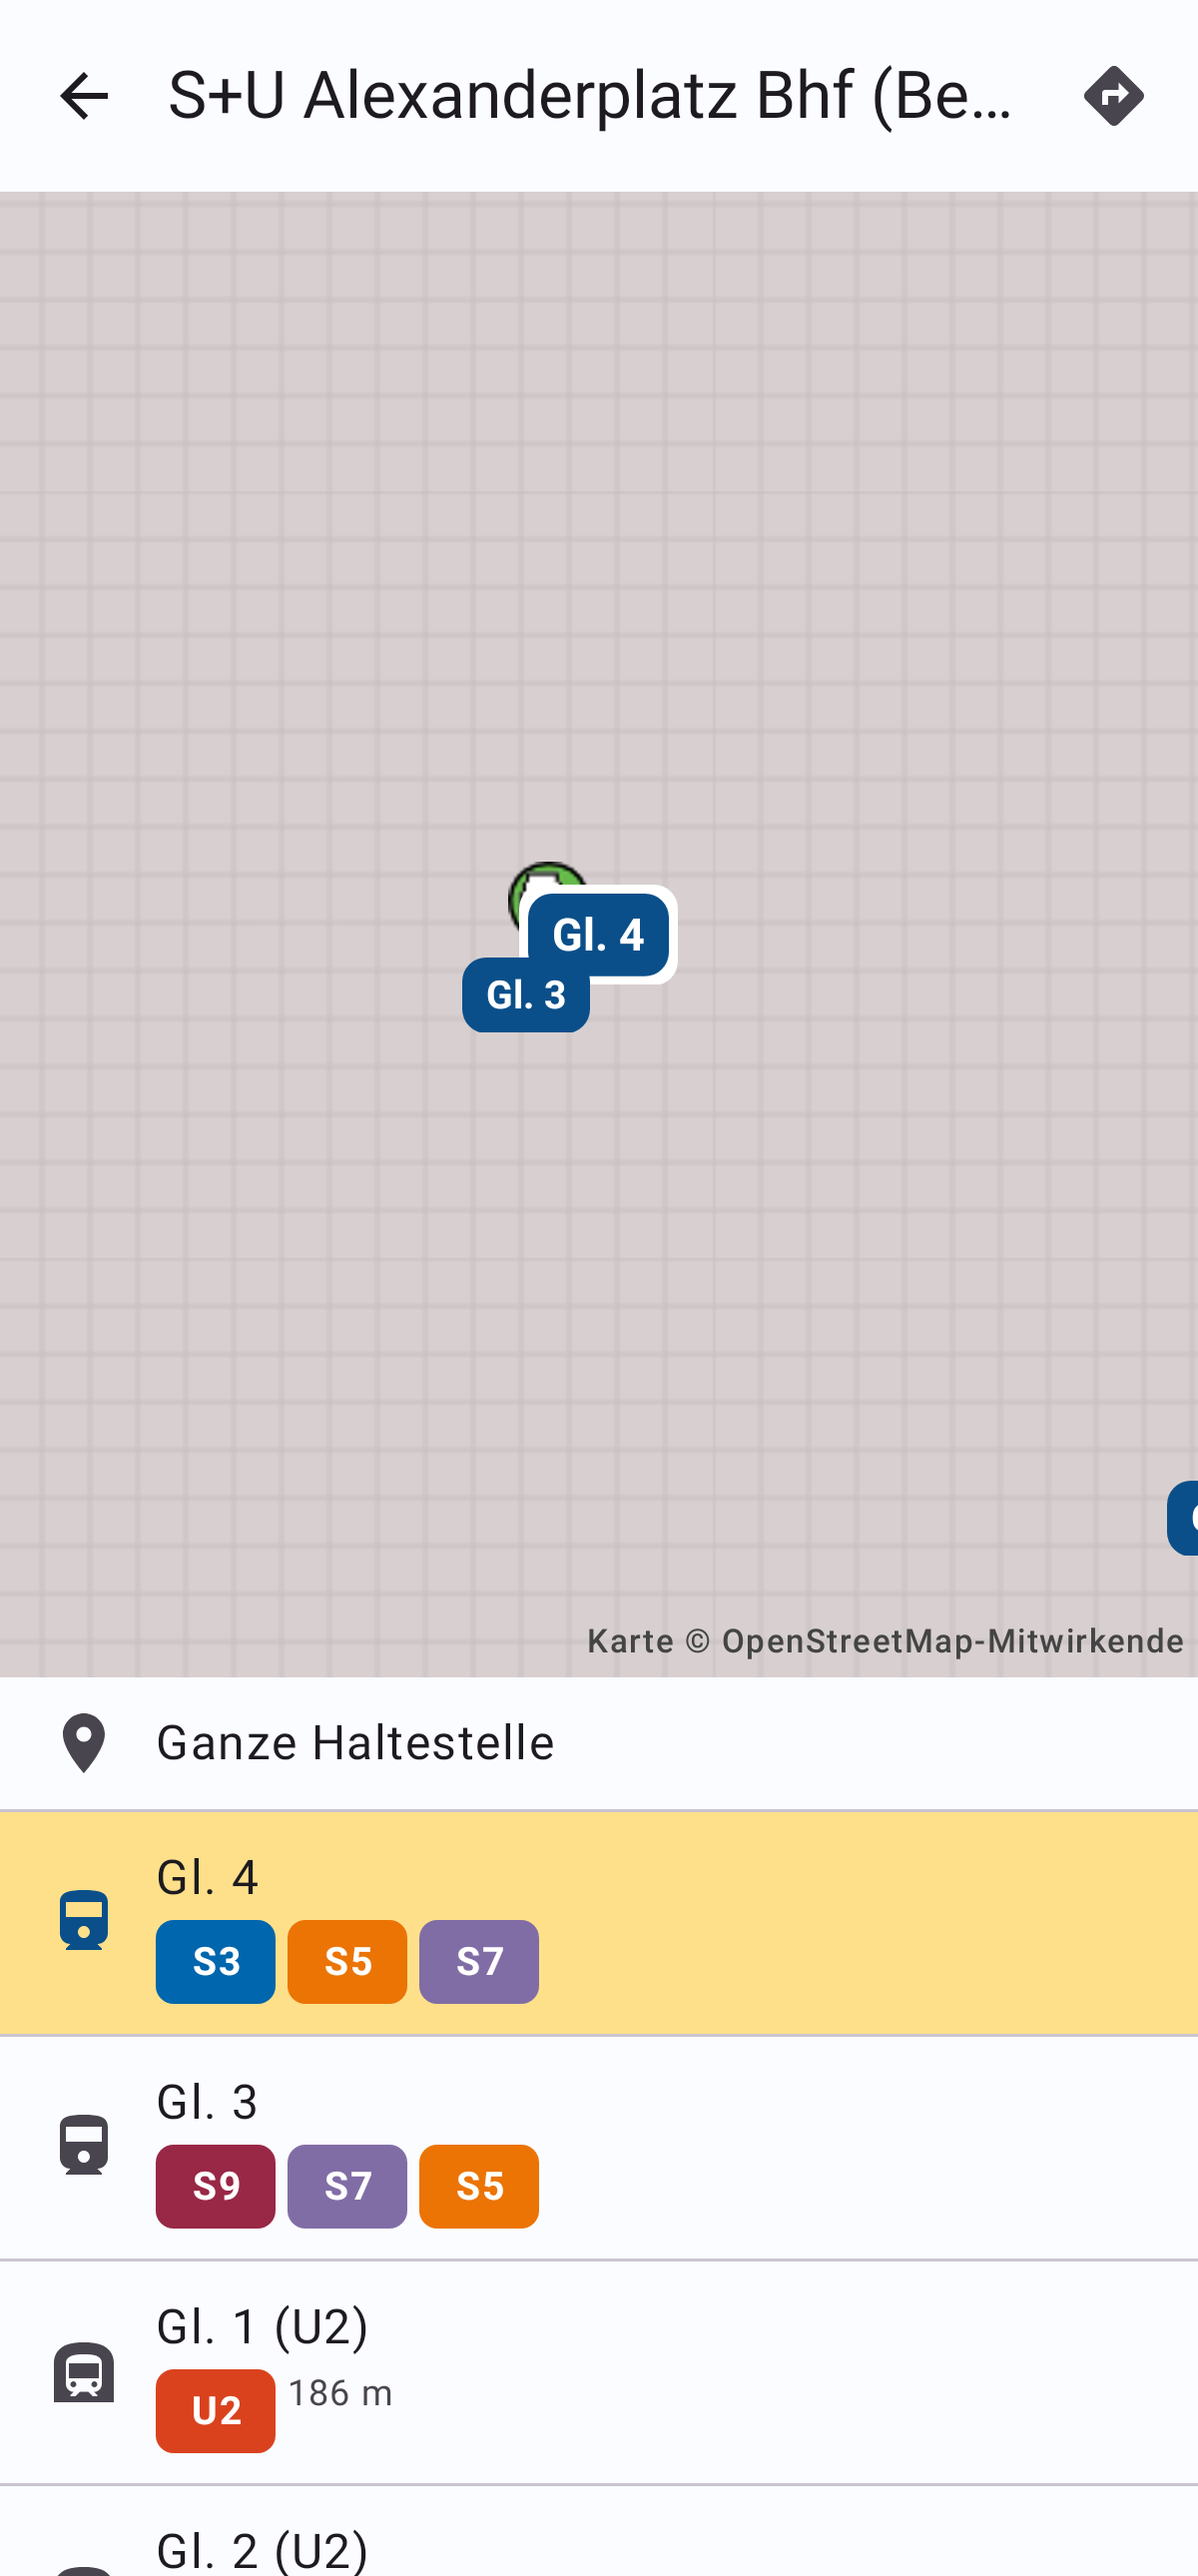
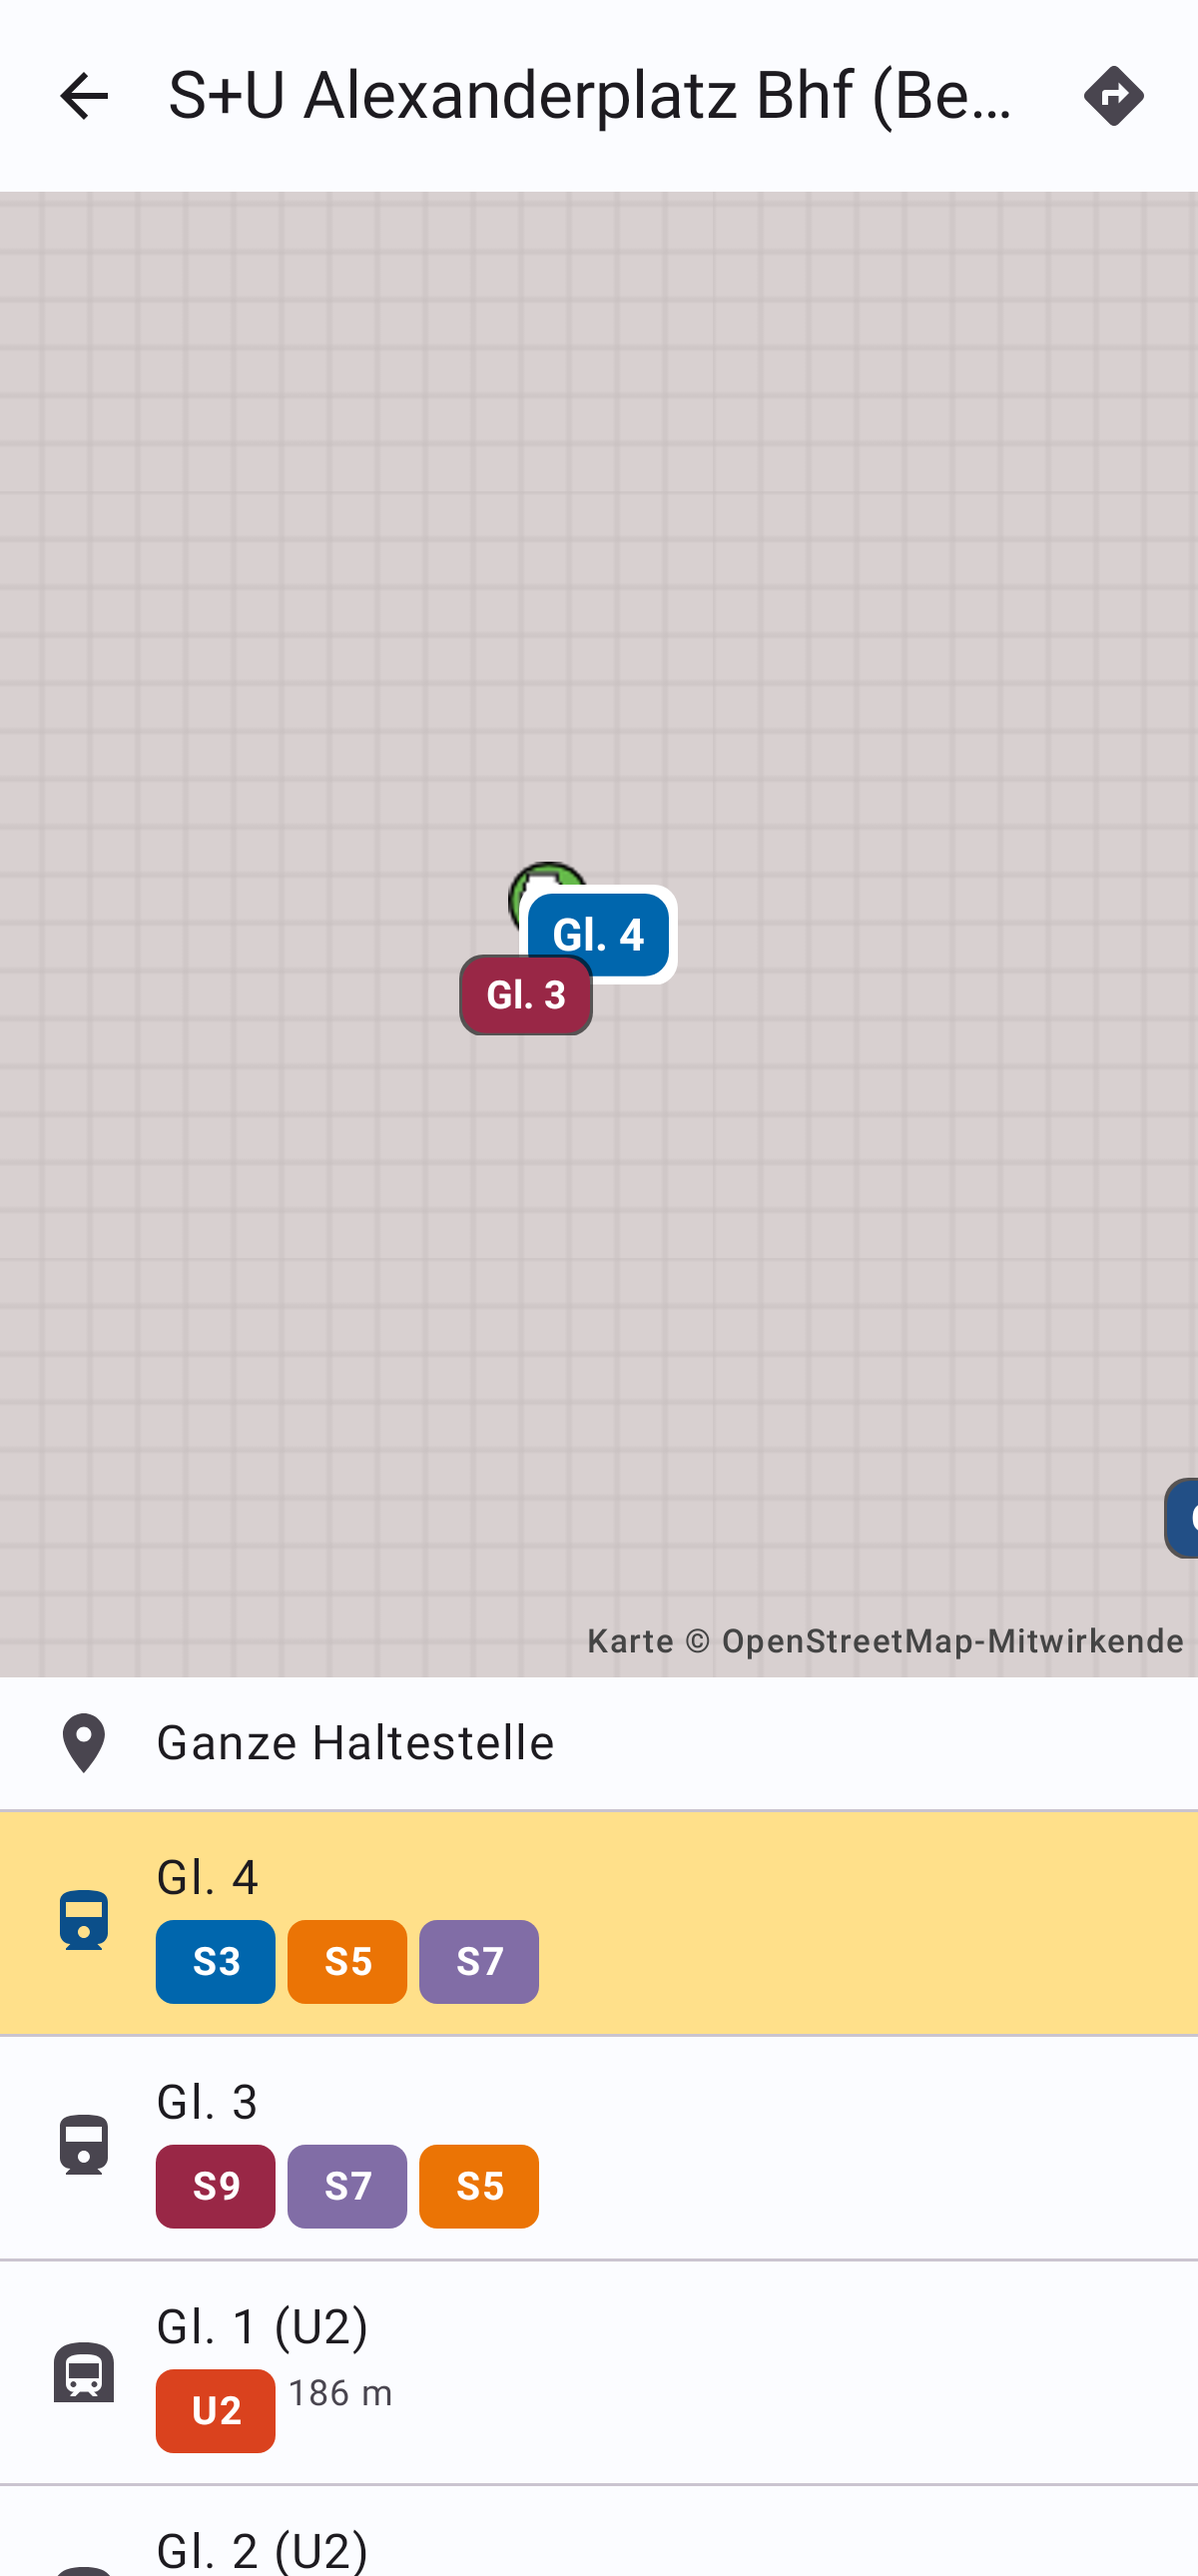
Make map labels readable in dark mode
The platform and stop labels on the map were drawn in white on the
theme's primary colour, which in dark mode is a pale tint: white boxes
without visible text. The map itself stays light in both themes, so the
labels no longer follow the theme: a platform takes the colour of its
main line (as its line badges do), with the feed's text colour or else
white or black, whichever contrasts more; platforms of lines without a
colour are dark blue, other stops dark grey. A thin dark outline keeps
light labels apart from the map.

Tests for the colours and a dark-mode screenshot of the map.

Claude-Session: https://claude.ai/code/session_01MJ5wF5pqDfNy3ZMUrC4JjH

Changed region(s): [[0.37, 0.3411, 0.555, 0.4031]]

diff --git a/app/src/main/java/io/github/dnicotra/ovinfode/ui/map/StopMapScreen.kt b/app/src/main/java/io/github/dnicotra/ovinfode/ui/map/StopMapScreen.kt
@@ -52,7 +52,6 @@ import androidx.compose.ui.Alignment
 import androidx.compose.ui.Modifier
 import androidx.compose.ui.draw.clipToBounds
 import androidx.compose.ui.graphics.Color
-import androidx.compose.ui.graphics.toArgb
 import androidx.compose.ui.platform.LocalContext
 import androidx.lifecycle.compose.LocalLifecycleOwner
 import androidx.compose.ui.res.stringResource
@@ -230,8 +229,6 @@ private const val MAX_LINES = 8
 private fun StopMap(state: StopMapUiState, onSelect: (MapTarget) -> Unit) {
     val context = LocalContext.current
     val lifecycle = LocalLifecycleOwner.current.lifecycle
-    val primary = MaterialTheme.colorScheme.primary.toArgb()
-    val secondary = MaterialTheme.colorScheme.tertiary.toArgb()
     val labels = state.targets.associateWith { markerLabel(it) }
     val mapView = remember {
         MapView(context).apply {
@@ -273,7 +270,8 @@ private fun StopMap(state: StopMapUiState, onSelect: (MapTarget) -> Unit) {
                     when (target) {
                         is MapTarget.WholeStop -> setAnchor(Marker.ANCHOR_CENTER, Marker.ANCHOR_BOTTOM)
                         else -> {
-                            icon = labelIcon(map.context, labels[target].orEmpty(), if (target is MapTarget.OtherStop) secondary else primary, isSelected)
+                            val (background, text) = labelColors(target)
+                            icon = labelIcon(map.context, labels[target].orEmpty(), background, text, isSelected)
                             setAnchor(Marker.ANCHOR_CENTER, Marker.ANCHOR_CENTER)
                         }
                     }
@@ -300,26 +298,57 @@ private fun markerLabel(target: MapTarget): String = when (target) {
     is MapTarget.OtherStop -> target.nearby.stop.name.let { if (it.length > 18) it.take(17) + "…" else it }
 }
 
-/** A rounded label in [color], larger and outlined when [selected]. */
-private fun labelIcon(context: Context, text: String, color: Int, selected: Boolean): BitmapDrawable {
+// Marker colours do not follow the app's theme: the map underneath is always light.
+private const val PLATFORM_LABEL = 0xFF1F3A5F.toInt()
+private const val OTHER_STOP_LABEL = 0xFF4A4A4A.toInt()
+private const val WHITE = 0xFFFFFFFF.toInt()
+private const val BLACK = 0xFF000000.toInt()
+
+/**
+ * Background and text colour of a marker: a platform in the colour of its main line, as on
+ * the line badges, where the feed has one; otherwise dark blue, other stops dark grey.
+ */
+internal fun labelColors(target: MapTarget): Pair<Int, Int> {
+    if (target is MapTarget.Platform) {
+        val line = target.place.lines.firstOrNull { it.color != null }
+        val background = line?.color
+        if (background != null) return background to (line.textColor ?: readableTextOn(background))
+        return PLATFORM_LABEL to WHITE
+    }
+    return OTHER_STOP_LABEL to WHITE
+}
+
+/** White or black, whichever reads better on [background] (relative luminance, WCAG). */
+internal fun readableTextOn(background: Int): Int {
+    fun channel(shift: Int): Double {
+        val c = ((background shr shift) and 0xFF) / 255.0
+        return if (c <= 0.03928) c / 12.92 else Math.pow((c + 0.055) / 1.055, 2.4)
+    }
+    val luminance = 0.2126 * channel(16) + 0.7152 * channel(8) + 0.0722 * channel(0)
+    // Contrast with white (1.05 / (L + 0.05)) against contrast with black ((L + 0.05) / 0.05).
+    return if (1.05 / (luminance + 0.05) >= (luminance + 0.05) / 0.05) WHITE else BLACK
+}
+
+/** A rounded label with [text] in [textColor] on [background], larger and outlined when [selected]. */
+private fun labelIcon(context: Context, text: String, background: Int, textColor: Int, selected: Boolean): BitmapDrawable {
     val density = context.resources.displayMetrics.density
     val paint = Paint(Paint.ANTI_ALIAS_FLAG).apply {
         textSize = (if (selected) 15 else 13) * density
         typeface = Typeface.DEFAULT_BOLD
-        this.color = android.graphics.Color.WHITE
+        color = textColor
     }
     val padH = 8 * density
     val padV = 5 * density
-    val border = if (selected) 3 * density else 0f
+    // A thin outline keeps light labels apart from the map; the selected one gets a thick one.
+    val border = (if (selected) 3 else 1) * density
     val width = paint.measureText(text) + 2 * padH + 2 * border
     val height = paint.fontMetrics.let { it.descent - it.ascent } + 2 * padV + 2 * border
     val bitmap = Bitmap.createBitmap(width.toInt().coerceAtLeast(1), height.toInt().coerceAtLeast(1), Bitmap.Config.ARGB_8888)
     val canvas = Canvas(bitmap)
     val radius = 8 * density
-    if (selected) {
-        canvas.drawRoundRect(RectF(0f, 0f, width, height), radius, radius, Paint(Paint.ANTI_ALIAS_FLAG).apply { this.color = android.graphics.Color.WHITE })
-    }
-    canvas.drawRoundRect(RectF(border, border, width - border, height - border), radius, radius, Paint(Paint.ANTI_ALIAS_FLAG).apply { this.color = color })
+    val outline = if (selected) WHITE else 0x99000000.toInt()
+    canvas.drawRoundRect(RectF(0f, 0f, width, height), radius, radius, Paint(Paint.ANTI_ALIAS_FLAG).apply { color = outline })
+    canvas.drawRoundRect(RectF(border, border, width - border, height - border), radius, radius, Paint(Paint.ANTI_ALIAS_FLAG).apply { color = background })
     canvas.drawText(text, border + padH, border + padV - paint.fontMetrics.ascent, paint)
     return BitmapDrawable(context.resources, bitmap)
 }

diff --git a/app/src/test/java/io/github/dnicotra/ovinfode/ui/map/MapLabelsTest.kt b/app/src/test/java/io/github/dnicotra/ovinfode/ui/map/MapLabelsTest.kt
@@ -1,0 +1,41 @@
+package io.github.dnicotra.ovinfode.ui.map
+
+import io.github.dnicotra.ovinfode.data.model.LatLon
+import io.github.dnicotra.ovinfode.data.model.Line
+import io.github.dnicotra.ovinfode.data.model.NearbyStop
+import io.github.dnicotra.ovinfode.data.model.Stop
+import io.github.dnicotra.ovinfode.data.model.TransportMode
+import io.github.dnicotra.ovinfode.util.PlatformPlace
+import org.junit.Assert.assertEquals
+import org.junit.Assert.assertNotEquals
+import org.junit.Test
+
+/** Marker labels must be readable on the (always light) map, whatever the app's theme. */
+class MapLabelsTest {
+    private val white = 0xFFFFFFFF.toInt()
+    private val black = 0xFF000000.toInt()
+
+    private fun platform(vararg lines: Line) = MapTarget.Platform(PlatformPlace(LatLon(49.41, 8.69), "Bismarckplatz", listOf("A"), lines.toList()))
+
+    @Test
+    fun `text reads on the background`() {
+        assertEquals(white, readableTextOn(0xFF1F3A5F.toInt()))
+        assertEquals(black, readableTextOn(0xFFF5C542.toInt())) // RNV 22 yellow
+        assertEquals(black, readableTextOn(white))
+        assertEquals(white, readableTextOn(black))
+    }
+
+    @Test
+    fun `platforms in the colour of their line, else dark`() {
+        val rnv22 = Line("RNV 22", TransportMode.TRAM, color = 0xFFF5C542.toInt())
+        assertEquals(0xFFF5C542.toInt() to black, labelColors(platform(rnv22)))
+        val withText = Line("RNV 5", TransportMode.TRAM, color = 0xFF3C8D4F.toInt(), textColor = white)
+        assertEquals(0xFF3C8D4F.toInt() to white, labelColors(platform(withText)))
+        val (background, text) = labelColors(platform(Line("754", TransportMode.BUS)))
+        assertNotEquals(white, background)
+        assertEquals(white, text)
+        val other = MapTarget.OtherStop(NearbyStop(Stop("x", "Bismarckplatz Nord", 49.41, 8.69), 80))
+        assertEquals(white, labelColors(other).second)
+        assertNotEquals(white, labelColors(other).first)
+    }
+}

diff --git a/app/src/test/java/io/github/dnicotra/ovinfode/ui/ScreenshotTest.kt b/app/src/test/java/io/github/dnicotra/ovinfode/ui/ScreenshotTest.kt
@@ -250,6 +250,8 @@ class ScreenshotTest {
         )
         val state = StopMapUiState(stop, loading = false, platforms = places, similarStops = similar, selected = MapTarget.Platform(places.first()))
         capture("stop_map") { StopMapContent(state, {}, {}, {}) }
+        // The map stays light in dark mode: its labels must not take the dark theme's pale colours.
+        capture("stop_map_dark", dark = true) { StopMapContent(state, {}, {}, {}) }
     }
 
     @Test
